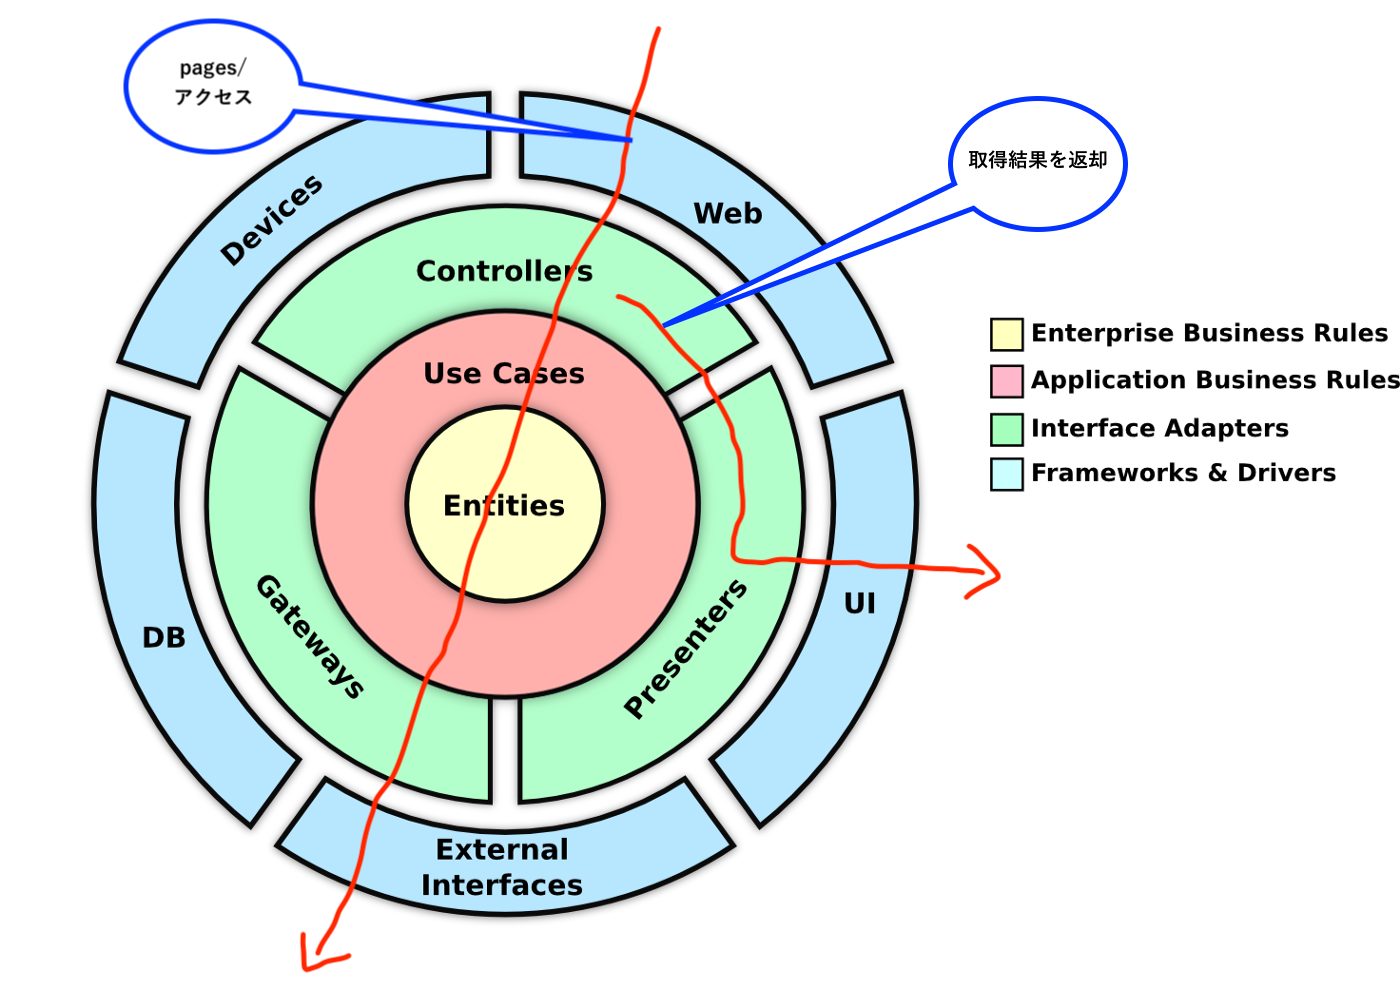
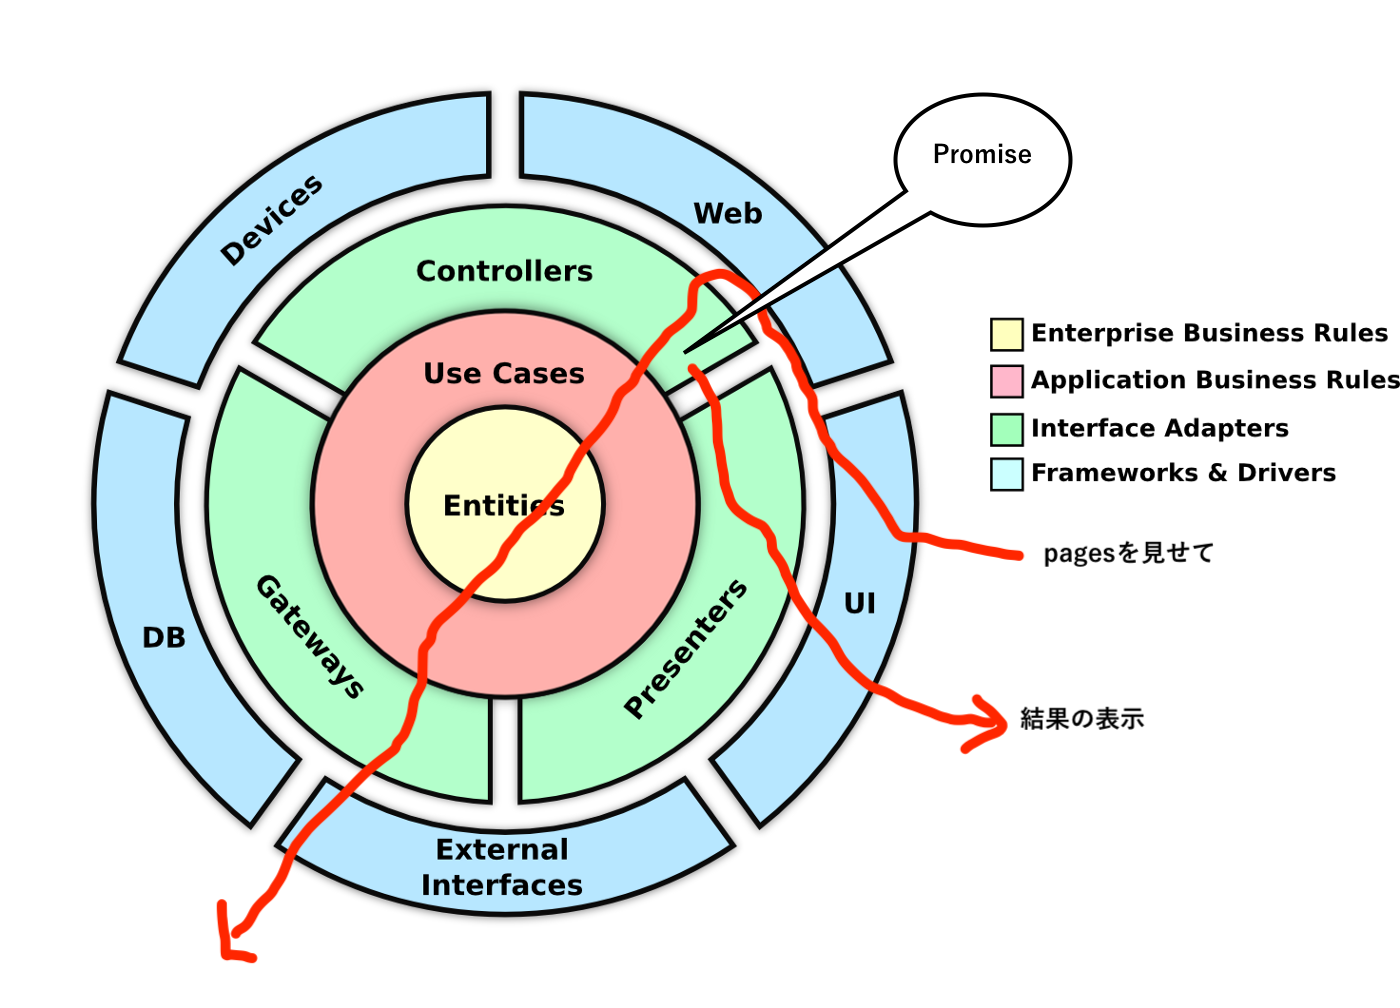
:pencil: ドキュメント更新

diff --git a/readme.md b/readme.md
@@ -159,6 +159,10 @@ if (!obj.isErr) {
 
 ![-](./doc/img/CleanArchitecture.png)
 
+## 役割
+
+![-](./doc/img/CleanArchitecture2.png)
+
 ## 方針など
 
 - `catch` どこで必要か？
